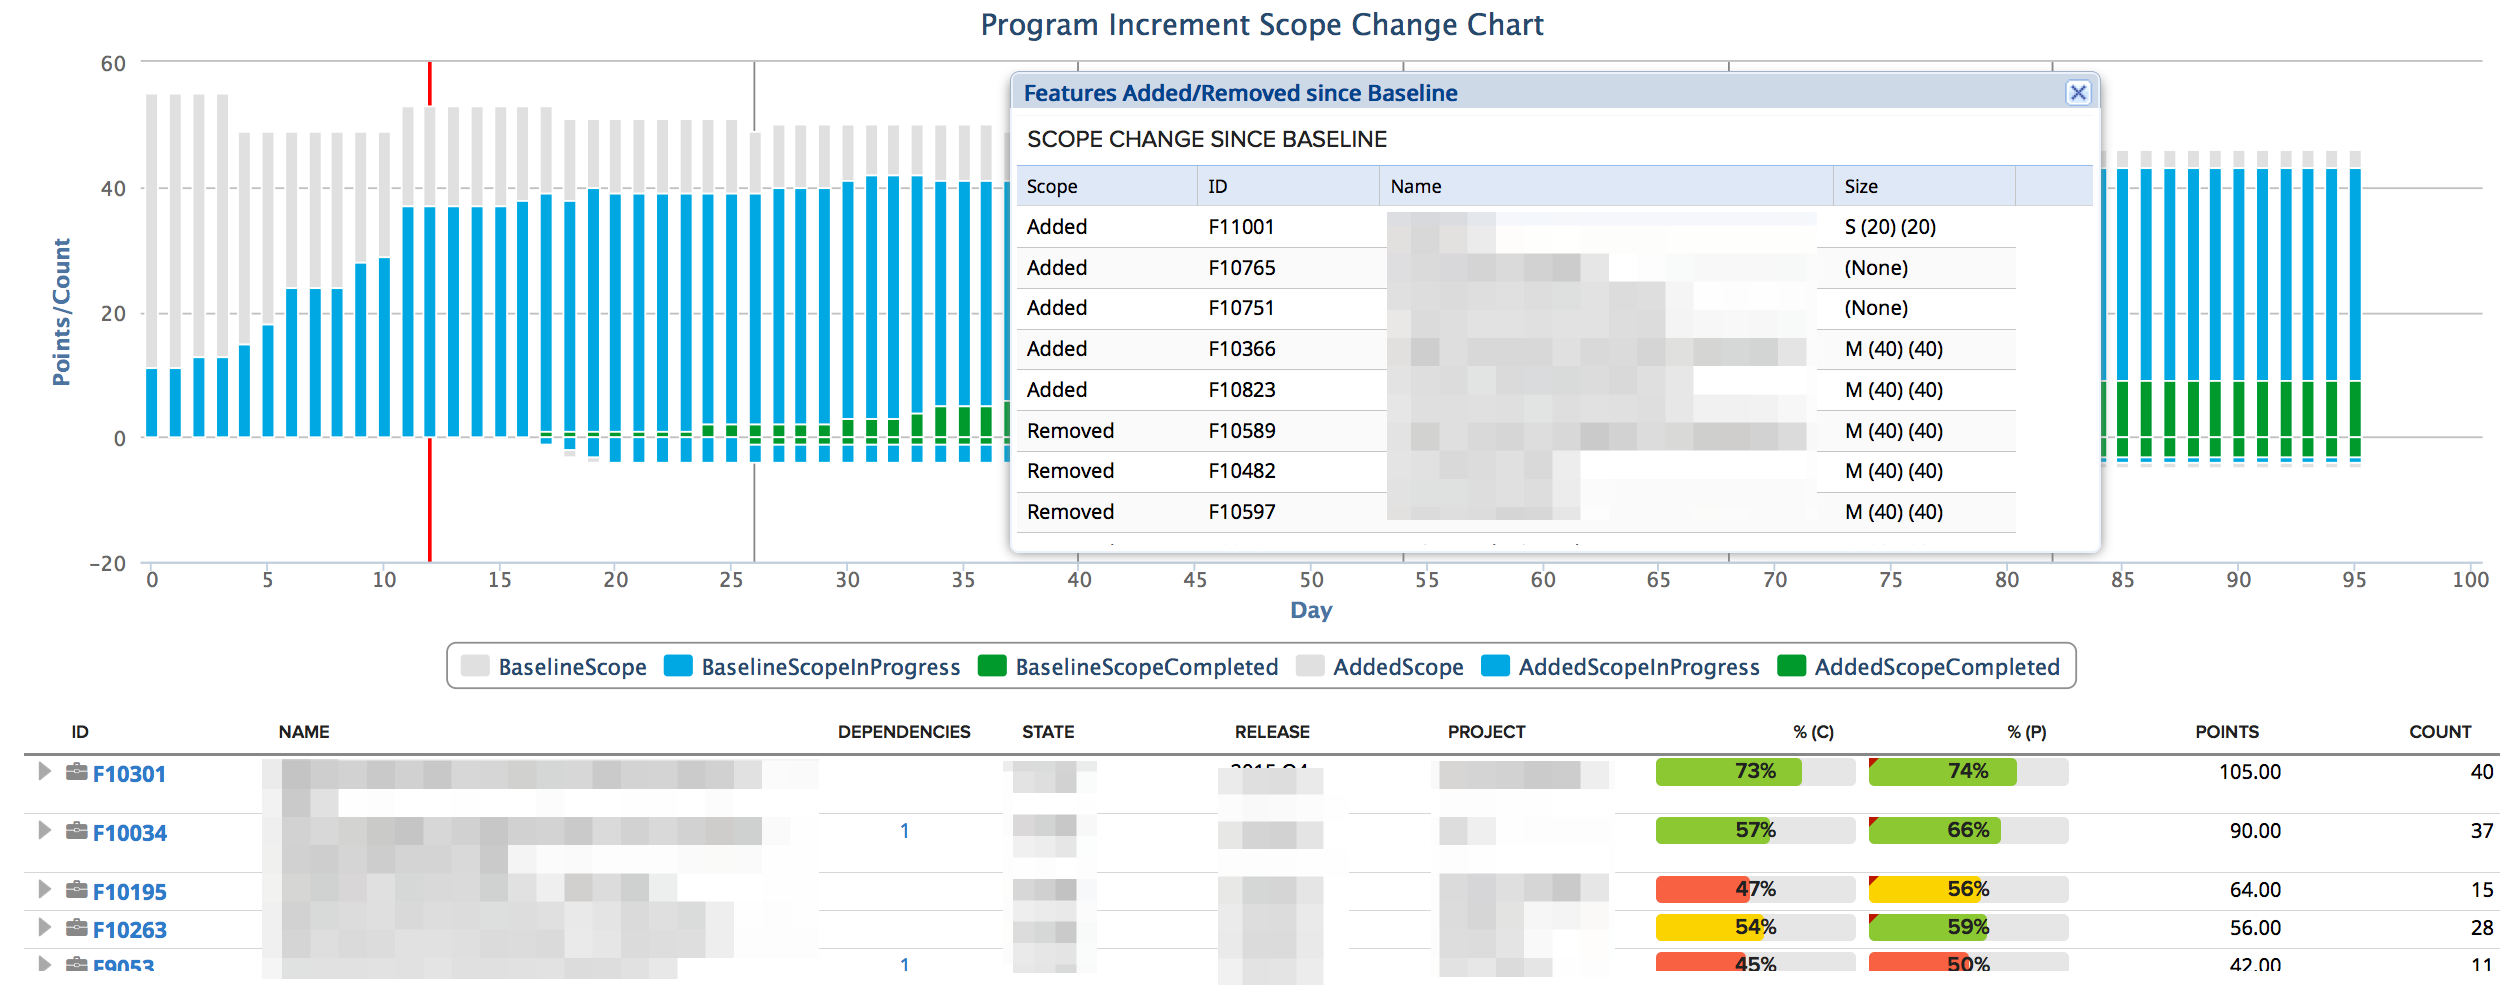
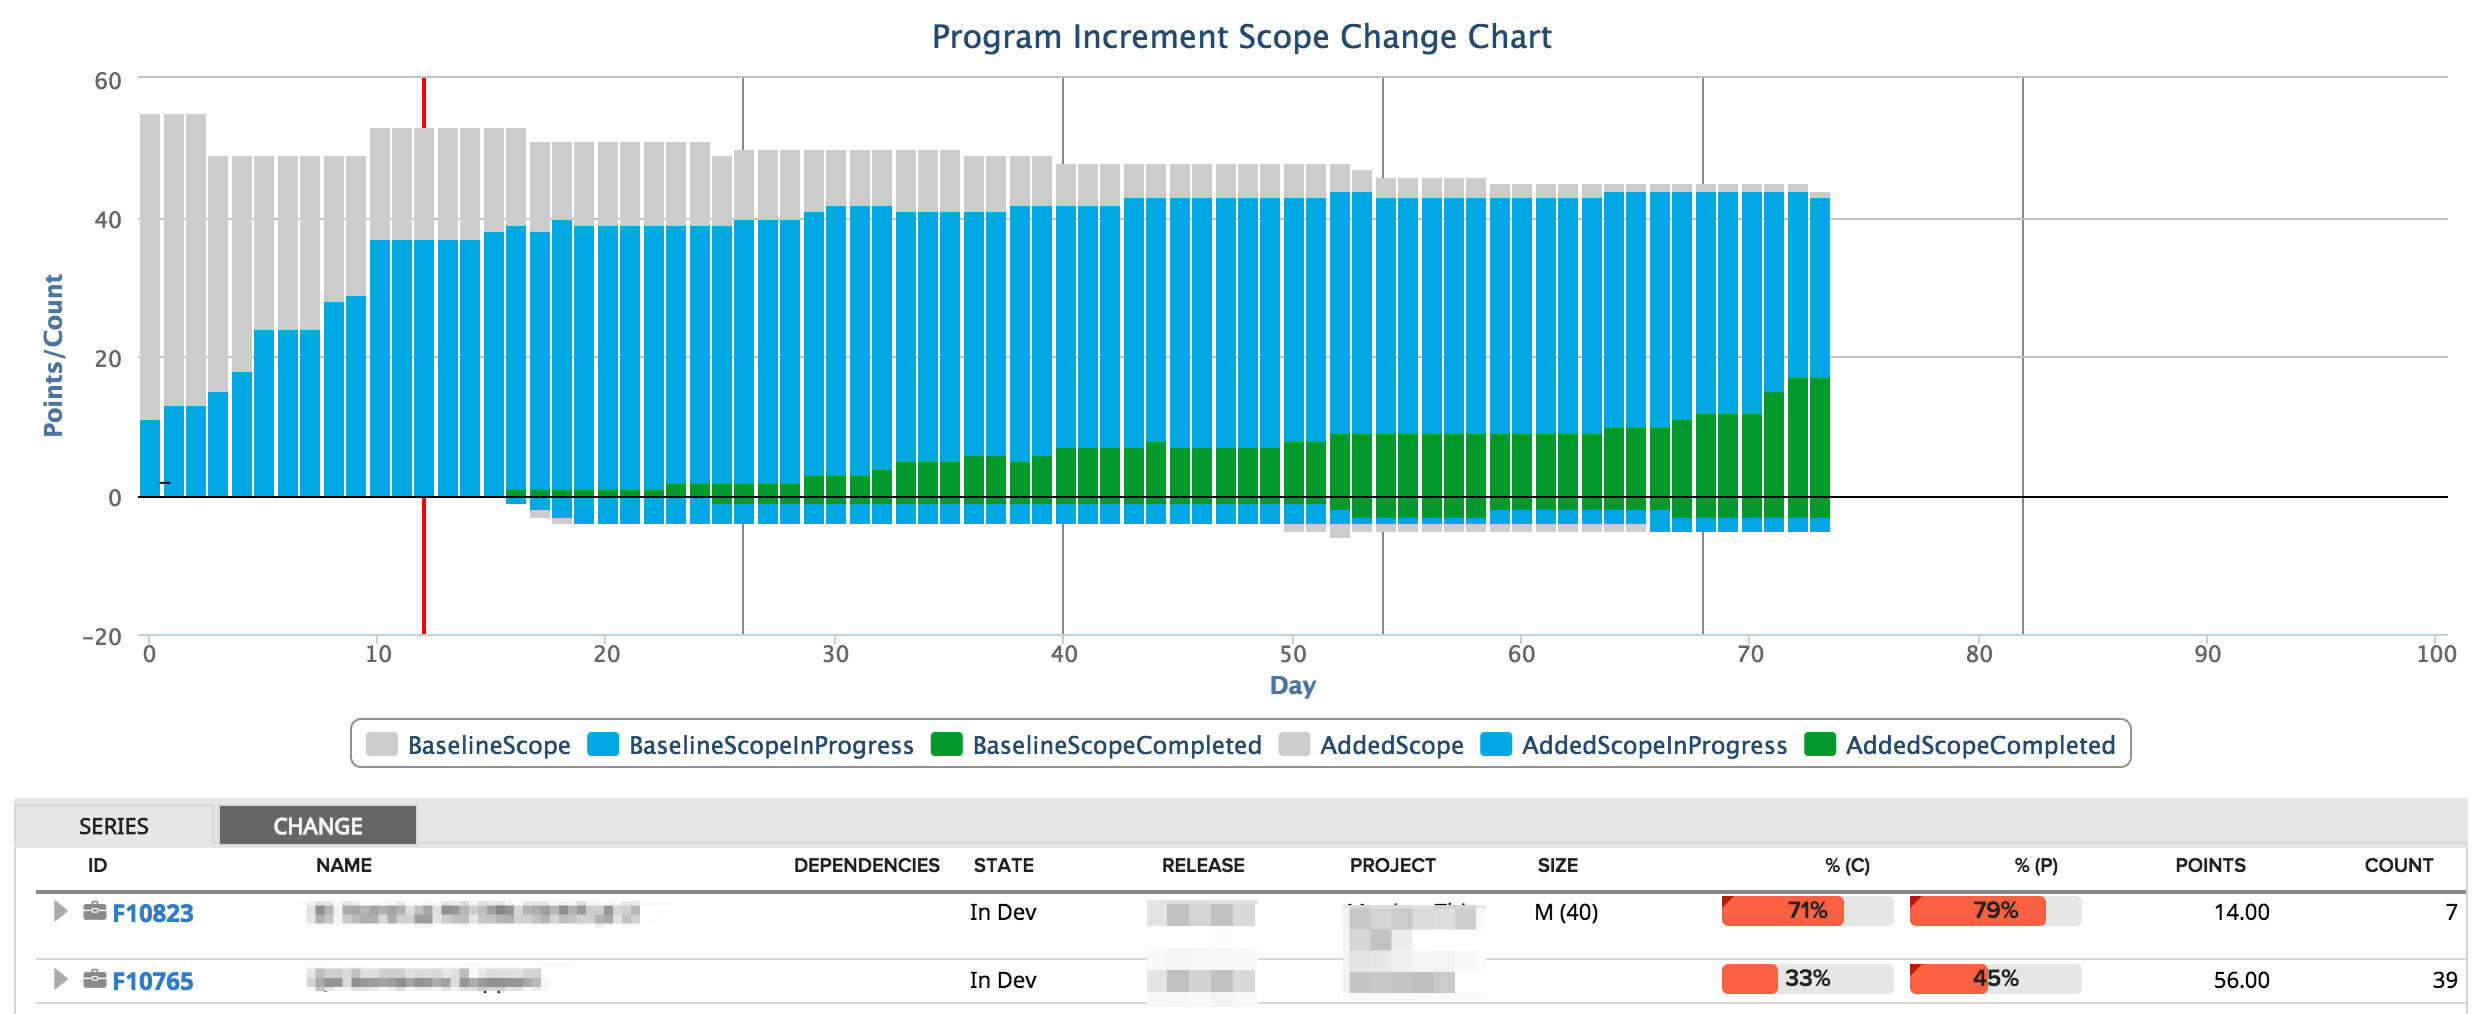
new screenshot

diff --git a/README.md b/README.md
@@ -5,9 +5,17 @@ Barry Mullan (December 2015)
 
 ## Overview
 
+Install this app in a Release filtered dashboard page. 
+
+This app requires a SAAS subscription as it uses the lookback api.
+
+## Overview
+
 This chart visualizes the change in feature commitment during a release / program increment. This will be useful to determine if changes in scope are impacting delivery of original scope. It uses the concept of a baseline which can either be based on the first day of the release or at the end of the first sprint.
 
-Features not in the original baseline will be shown "below the line" while features removed will be removed from the top. Clicking on any column will display in a table below the features that make up the selected series. In addition a popup table will list all features added or removed since the baseline.
+Features not in the original baseline will be shown "below the line" while features removed will be removed from the top. 
+
+Clicking on any series will open a tabbed panel below. The 'Series' tab shows the features in the selected series. The 'Change' tab shows all features added or removed since the baseline.
 
 ![Screenshot](https://raw.githubusercontent.com/wrackzone/pi-scope-change-chart/master/screenshot.png)
 
